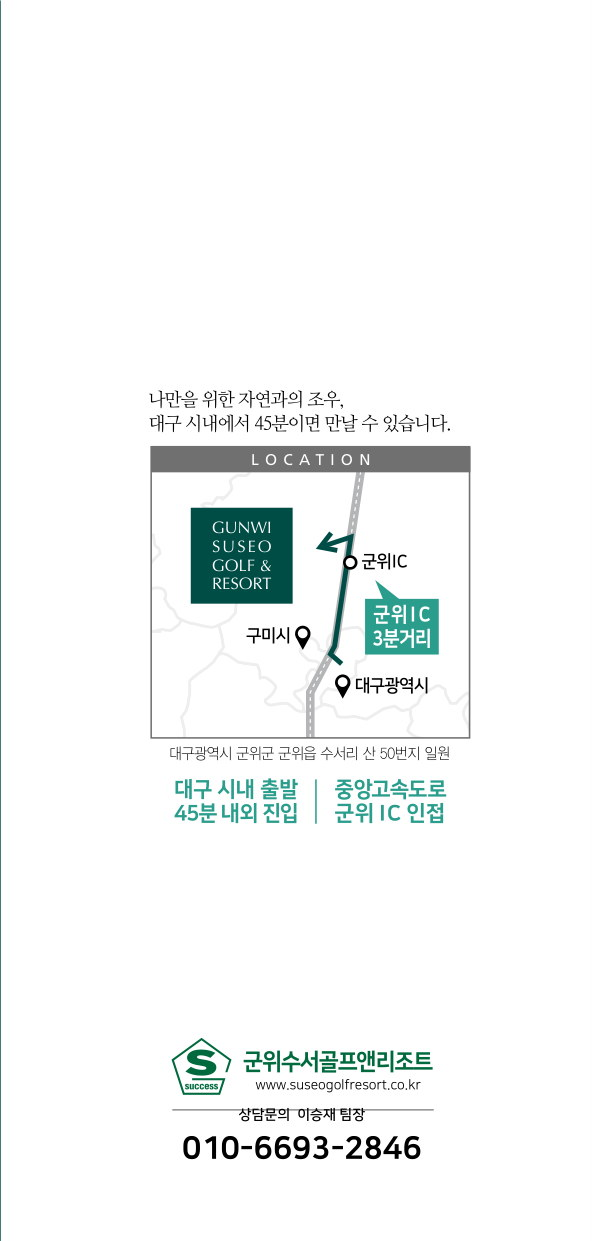
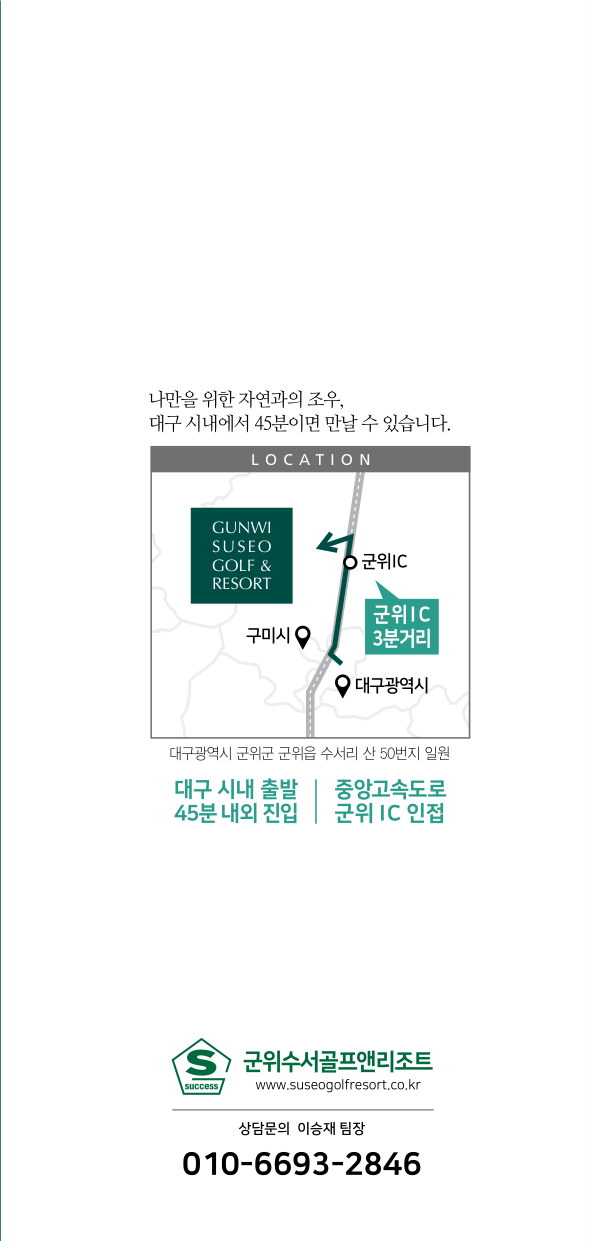
v5: ⑥ 상담문의 블록을 가로선 아래로 조정

Changed region(s): [[0.3041, 0.888, 0.7297, 0.9492]]

diff --git a/leaflet/index.html b/leaflet/index.html
@@ -90,7 +90,7 @@
 
 <script>
 (function () {
-  var BUILD = '202609071414';   // 이미지 캐시 무효화용. 빌드마다 갱신
+  var BUILD = '202609071415';   // 이미지 캐시 무효화용. 빌드마다 갱신
   var VERS = [
     ['v2', 'v2'],
     ['v3b', 'v3'],
